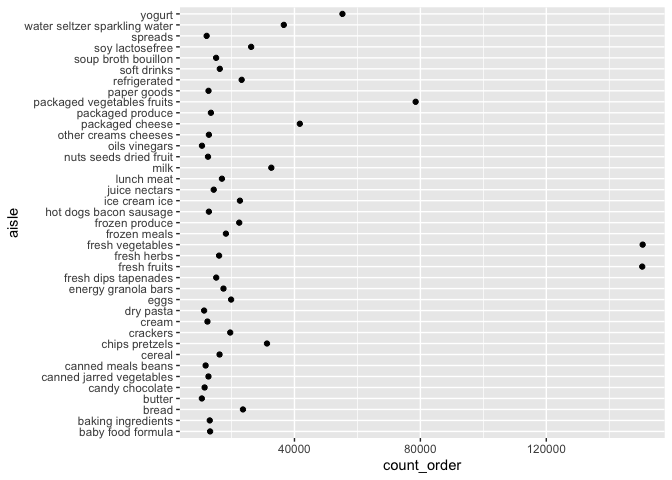
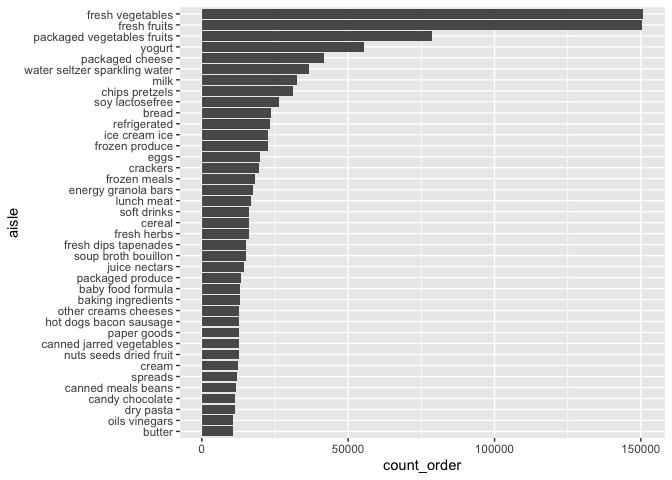
update

diff --git a/yy3103_HW3.md b/yy3103_HW3.md
@@ -67,9 +67,10 @@ aisle_plot=
   summarise(
     count_order=n()
   ) %>%
+  mutate(aisle=fct_reorder(aisle,count_order)) %>%
   filter(count_order>10000)
 
-ggplot(data=aisle_plot,aes(y=aisle,x=count_order))+geom_point()
+ggplot(data=aisle_plot,aes(y=aisle,x=count_order))+geom_col()
 ```
 
 ![](yy3103_HW3_files/figure-gfm/unnamed-chunk-2-1.png)<!-- -->
@@ -198,14 +199,15 @@ ggplot(two_panel, aes(x=data_value,y=year,color=response))+geom_point()+
   facet_grid(year ~.)
 ```
 
-![](yy3103_HW3_files/figure-gfm/unnamed-chunk-3-2.png)<!-- --> -In
+![](yy3103_HW3_files/figure-gfm/unnamed-chunk-3-2.png)<!-- --> - In
 2002,there are AZ, CO, CT, DE, FL, GA, HI, ID, IL, IN, KS, LA, MA, MD,
 ME, MI, MN, MO, NC, NE, NH, NJ, NV, NY, OH, OK, OR, PA, RI, SC, SD, TN,
-TX, UT, VT, WA that are observed at 7 or more locations. In 2010,there
-are AL, AR, AZ, CA, CO, CT, DE, FL, GA, HI, IA, ID, IL, IN, KS, LA, MA,
-MD, ME, MI, MN, MO, MS, MT, NC, ND, NE, NH, NJ, NM, NV, NY, OH, OK, OR,
-PA, RI, SC, SD, TN, TX, UT, VT, WA, WY that are observed at 7 or more
-locations.
+TX, UT, VT, WA that are observed at 7 or more locations.
+
+In 2010,there are AL, AR, AZ, CA, CO, CT, DE, FL, GA, HI, IA, ID, IL,
+IN, KS, LA, MA, MD, ME, MI, MN, MO, MS, MT, NC, ND, NE, NH, NJ, NM, NV,
+NY, OH, OK, OR, PA, RI, SC, SD, TN, TX, UT, VT, WA, WY that are observed
+at 7 or more locations.
 
 # Problem 3
 
